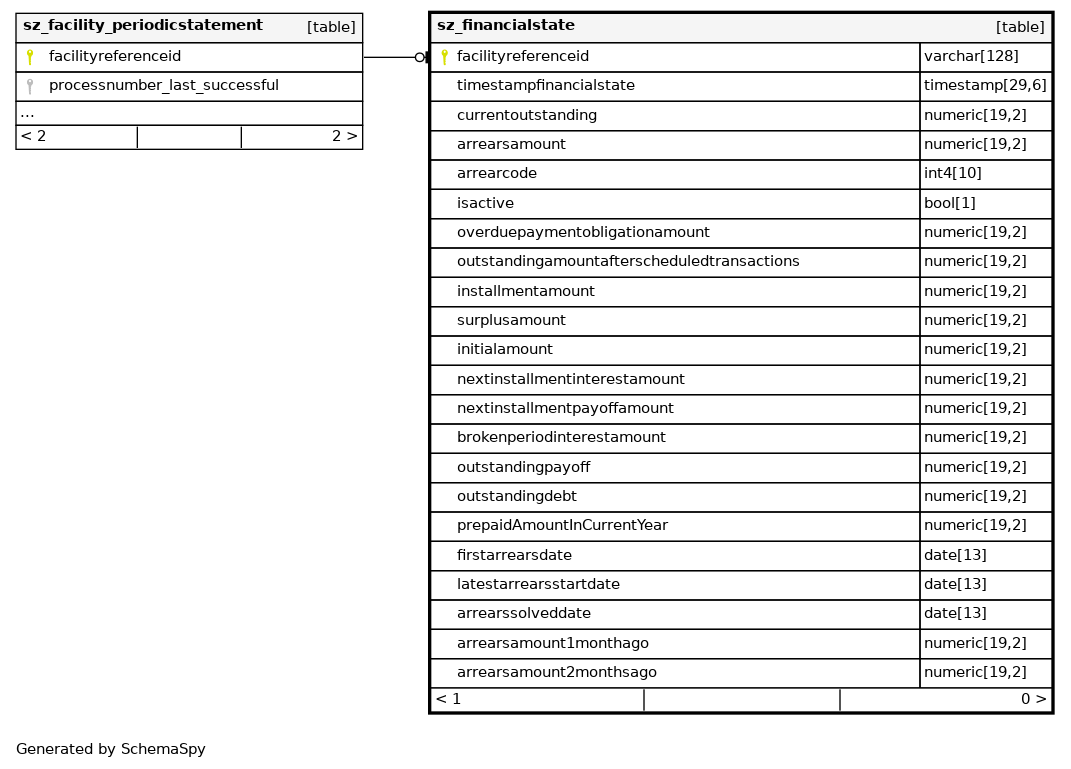
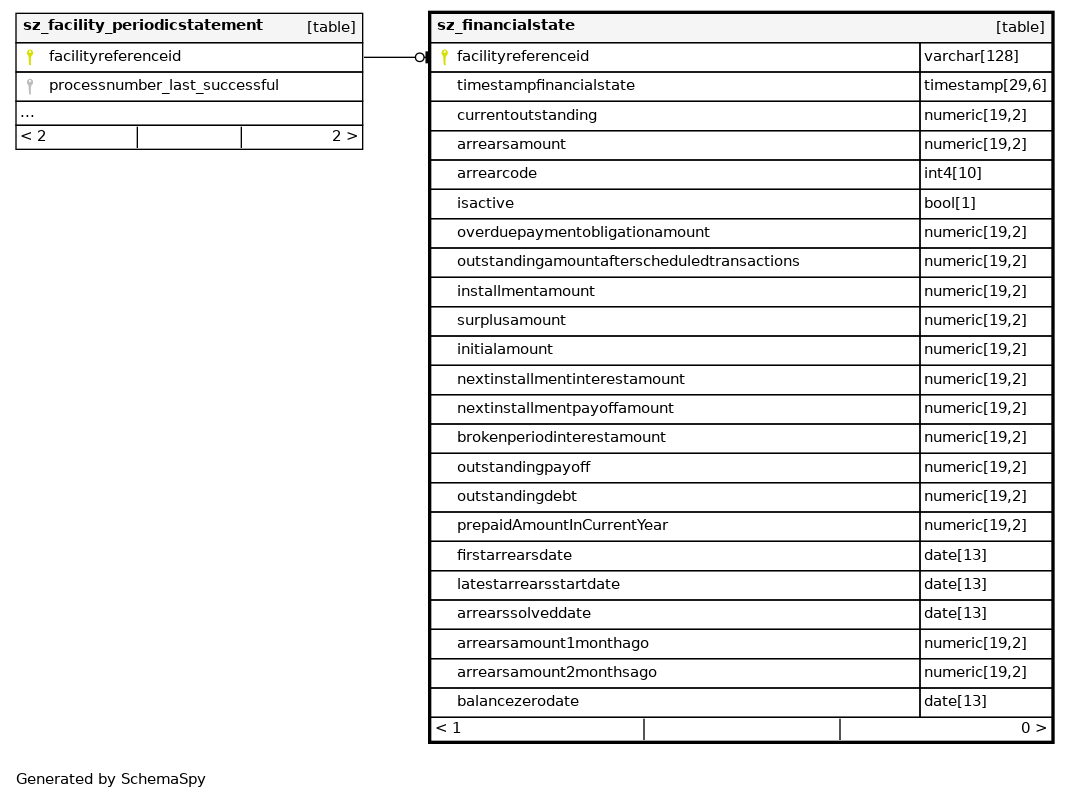
FYNL-143115 ALC-1825 Add balance zero date for facilities (added to sz_financialstate)

Changed region(s): [[0.0, 0.0, 0.986, 0.9363], [0.0, 0.9675, 0.1849, 0.9987]]

diff --git a/FDA/v2026.2/relationships.html b/FDA/v2026.2/relationships.html
@@ -113,9 +113,9 @@
 <area shape="rect" id="node15" href="tables/sz_otherproperties.html" target="_top" title="sz_otherproperties" alt="" coords="817,2473,1093,2591">
 <area shape="rect" id="node16" href="tables/sz_financialstate_agreementlevel.html" target="_top" title="sz_financialstate_agreementlevel" alt="" coords="1681,1388,2192,1505">
 <area shape="rect" id="node55" href="tables/sz_agreement_periodicstatement.html" target="_top" title="sz_agreement_periodicstatement" alt="" coords="1207,1537,1615,1684">
-<area shape="rect" id="node17" href="tables/sz_slidetails.html" target="_top" title="sz_slidetails" alt="" coords="1247,1151,1574,1297">
+<area shape="rect" id="node17" href="tables/sz_relation.html" target="_top" title="sz_relation" alt="" coords="1266,1315,1555,1520">
+<area shape="rect" id="node18" href="tables/sz_slidetails.html" target="_top" title="sz_slidetails" alt="" coords="1247,1151,1574,1297">
 <area shape="rect" id="node54" href="tables/sz_sli.html" target="_top" title="sz_sli" alt="" coords="855,1151,1055,1327">
-<area shape="rect" id="node18" href="tables/sz_relation.html" target="_top" title="sz_relation" alt="" coords="1266,1315,1555,1520">
 <area shape="rect" id="node19" href="tables/sz_calcmodel_customerbaseddetails.html" target="_top" title="sz_calcmodel_customerbaseddetails" alt="" coords="1193,424,1629,688">
 <area shape="rect" id="node20" href="tables/sz_businessrules.html" target="_top" title="sz_businessrules" alt="" coords="1279,2832,1542,3008">
 <area shape="rect" id="node28" href="tables/sz_approval.html" target="_top" title="sz_approval" alt="" coords="847,2779,1063,2925">
@@ -124,7 +124,7 @@
 <area shape="rect" id="node22" href="tables/sz_annualaccountsdetails.html" target="_top" title="sz_annualaccountsdetails" alt="" coords="1245,705,1577,852">
 <area shape="rect" id="node41" href="tables/sz_annualaccounts.html" target="_top" title="sz_annualaccounts" alt="" coords="822,749,1089,896">
 <area shape="rect" id="node24" href="tables/sz_fund_facility_participation.html" target="_top" title="sz_fund_facility_participation" alt="" coords="1224,3160,1597,3424">
-<area shape="rect" id="node36" href="tables/sz_fundingaccount.html" target="_top" title="sz_fundingaccount" alt="" coords="775,3307,1135,3453">
+<area shape="rect" id="node35" href="tables/sz_fundingaccount.html" target="_top" title="sz_fundingaccount" alt="" coords="775,3307,1135,3453">
 <area shape="rect" id="node25" href="tables/sz_financinggoal.html" target="_top" title="sz_financinggoal" alt="" coords="1277,1701,1545,1877">
 <area shape="rect" id="node31" href="tables/sz_user.html" target="_top" title="sz_user" alt="" coords="101,2697,263,2815">
 <area shape="rect" id="node29" href="tables/sz_periodicstatement_invoice.html" target="_top" title="sz_periodicstatement_invoice" alt="" coords="2309,1561,2680,1737">
@@ -133,7 +133,7 @@
 <area shape="rect" id="node32" href="tables/sz_financingsubgoal.html" target="_top" title="sz_financingsubgoal" alt="" coords="1789,1716,2084,1892">
 <area shape="rect" id="node33" href="tables/sz_constructionaccount_declaration.html" target="_top" title="sz_constructionaccount_declaration" alt="" coords="1721,2445,2153,2621">
 <area shape="rect" id="node34" href="tables/sz_processstatuschange.html" target="_top" title="sz_processstatuschange" alt="" coords="795,2943,1115,3119">
-<area shape="rect" id="node35" href="tables/sz_fundingaccount_periodicstatement.html" target="_top" title="sz_fundingaccount_periodicstatement" alt="" coords="1184,3441,1637,3617">
+<area shape="rect" id="node36" href="tables/sz_fundingaccount_periodicstatement.html" target="_top" title="sz_fundingaccount_periodicstatement" alt="" coords="1184,3441,1637,3617">
 <area shape="rect" id="node37" href="tables/sz_processevents.html" target="_top" title="sz_processevents" alt="" coords="783,2644,1128,2761">
 <area shape="rect" id="node38" href="tables/sz_counterparty_fiscal_info.html" target="_top" title="sz_counterparty_fiscal_info" alt="" coords="782,1449,1129,1596">
 <area shape="rect" id="node39" href="tables/sz_calcmodel_processbased.html" target="_top" title="sz_calcmodel_processbased" alt="" coords="779,913,1132,1089">
@@ -173,9 +173,9 @@
 <area shape="rect" id="node15" href="tables/sz_otherproperties.html" target="_top" title="sz_otherproperties" alt="" coords="1372,667,1648,789">
 <area shape="rect" id="node16" href="tables/sz_financialstate_agreementlevel.html" target="_top" title="sz_financialstate_agreementlevel" alt="" coords="2236,6148,2747,6857">
 <area shape="rect" id="node55" href="tables/sz_agreement_periodicstatement.html" target="_top" title="sz_agreement_periodicstatement" alt="" coords="1761,6837,2169,6989">
-<area shape="rect" id="node17" href="tables/sz_slidetails.html" target="_top" title="sz_slidetails" alt="" coords="1802,1428,2129,2607">
+<area shape="rect" id="node17" href="tables/sz_relation.html" target="_top" title="sz_relation" alt="" coords="1821,4944,2110,5155">
+<area shape="rect" id="node18" href="tables/sz_slidetails.html" target="_top" title="sz_slidetails" alt="" coords="1802,1428,2129,2607">
 <area shape="rect" id="node54" href="tables/sz_sli.html" target="_top" title="sz_sli" alt="" coords="1410,1703,1610,1884">
-<area shape="rect" id="node18" href="tables/sz_relation.html" target="_top" title="sz_relation" alt="" coords="1821,4944,2110,5155">
 <area shape="rect" id="node19" href="tables/sz_calcmodel_customerbaseddetails.html" target="_top" title="sz_calcmodel_customerbaseddetails" alt="" coords="1747,3820,2183,4119">
 <area shape="rect" id="node20" href="tables/sz_businessrules.html" target="_top" title="sz_businessrules" alt="" coords="1834,737,2097,1095">
 <area shape="rect" id="node28" href="tables/sz_approval.html" target="_top" title="sz_approval" alt="" coords="1402,843,1618,1083">
@@ -184,7 +184,7 @@
 <area shape="rect" id="node22" href="tables/sz_annualaccountsdetails.html" target="_top" title="sz_annualaccountsdetails" alt="" coords="1799,2624,2131,3803">
 <area shape="rect" id="node41" href="tables/sz_annualaccounts.html" target="_top" title="sz_annualaccounts" alt="" coords="1377,2653,1643,2805">
 <area shape="rect" id="node24" href="tables/sz_fund_facility_participation.html" target="_top" title="sz_fund_facility_participation" alt="" coords="1779,4136,2152,4435">
-<area shape="rect" id="node36" href="tables/sz_fundingaccount.html" target="_top" title="sz_fundingaccount" alt="" coords="1330,4327,1690,5007">
+<area shape="rect" id="node35" href="tables/sz_fundingaccount.html" target="_top" title="sz_fundingaccount" alt="" coords="1330,4327,1690,5007">
 <area shape="rect" id="node25" href="tables/sz_financinggoal.html" target="_top" title="sz_financinggoal" alt="" coords="1831,7580,2099,7791">
 <area shape="rect" id="node31" href="tables/sz_user.html" target="_top" title="sz_user" alt="" coords="656,908,817,1060">
 <area shape="rect" id="node29" href="tables/sz_periodicstatement_invoice.html" target="_top" title="sz_periodicstatement_invoice" alt="" coords="2864,6893,3235,7280">
@@ -193,13 +193,13 @@
 <area shape="rect" id="node32" href="tables/sz_financingsubgoal.html" target="_top" title="sz_financingsubgoal" alt="" coords="2344,7551,2639,7791">
 <area shape="rect" id="node33" href="tables/sz_constructionaccount_declaration.html" target="_top" title="sz_constructionaccount_declaration" alt="" coords="2275,5576,2707,5933">
 <area shape="rect" id="node34" href="tables/sz_processstatuschange.html" target="_top" title="sz_processstatuschange" alt="" coords="1350,5,1670,392">
-<area shape="rect" id="node35" href="tables/sz_fundingaccount_periodicstatement.html" target="_top" title="sz_fundingaccount_periodicstatement" alt="" coords="1739,4452,2192,4927">
+<area shape="rect" id="node36" href="tables/sz_fundingaccount_periodicstatement.html" target="_top" title="sz_fundingaccount_periodicstatement" alt="" coords="1739,4452,2192,4927">
 <area shape="rect" id="node37" href="tables/sz_processevents.html" target="_top" title="sz_processevents" alt="" coords="1337,1100,1683,1487">
 <area shape="rect" id="node38" href="tables/sz_counterparty_fiscal_info.html" target="_top" title="sz_counterparty_fiscal_info" alt="" coords="1337,7572,1683,7753">
 <area shape="rect" id="node39" href="tables/sz_calcmodel_processbased.html" target="_top" title="sz_calcmodel_processbased" alt="" coords="1333,1504,1687,1685">
 <area shape="rect" id="node40" href="tables/sz_agreement_tags.html" target="_top" title="sz_agreement_tags" alt="" coords="1830,7007,2101,7159">
 <area shape="rect" id="node42" href="tables/sz_workflowprocessdefinition.html" target="_top" title="sz_workflowprocessdefinition" alt="" coords="3731,1849,4103,2060">
-<area shape="rect" id="node43" href="tables/sz_financialstate.html" target="_top" title="sz_financialstate" alt="" coords="2794,5248,3305,5957">
+<area shape="rect" id="node43" href="tables/sz_financialstate.html" target="_top" title="sz_financialstate" alt="" coords="2794,5248,3305,5987">
 <area shape="rect" id="node45" href="tables/sz_calcmodel_processbaseddetails.html" target="_top" title="sz_calcmodel_processbaseddetails" alt="" coords="1755,1112,2175,1411">
 <area shape="rect" id="node46" href="tables/sz_fee_agreement.html" target="_top" title="sz_fee_agreement" alt="" coords="1820,7176,2111,7563">
 <area shape="rect" id="node47" href="tables/sz_collateral_object_taxation.html" target="_top" title="sz_collateral_object_taxation" alt="" coords="2867,7779,3231,8253">

diff --git a/FDA/v2026.2/index.html b/FDA/v2026.2/index.html
@@ -78,7 +78,7 @@
                         <div class="col-md-12">
                             <div class="callout callout-info">
                                 <h4>SchemaSpy Analysis of data-analytics.wlc</h4>
-                                <p>Generated on Mon Nov 09 13:19 UTC 2026</p>
+                                <p>Generated on Mon Nov 16 10:45 UTC 2026</p>
                             </div>
                         </div>
                     </div>
@@ -127,7 +127,7 @@
                                 <span class="info-box-icon bg-green"><span class="glyphicon glyphicon-list-alt" aria-hidden="true"></span></span>
                                 <div class="info-box-content">
                                     <span class="info-box-text">COLUMNS</span>
-                                    <span class="info-box-number">627</span>
+                                    <span class="info-box-number">628</span>
                                 </div>
                                 <!-- /.info-box-content -->
                             </div>
@@ -333,20 +333,20 @@
                                         <td class="comment detail" style="display: table-cell;"><p>Table with financial_state on agreement level</p></td>
                                     </tr>
                                     <tr class="tbl even" valign="top">
-                                        <td class="detail"><a href="tables/sz_slidetails.html">sz_slidetails</a></td>
-                                        <td class="detail" align="right">0</td>
-                                        <td class="detail" align="right">1</td>
-                                        <td class="detail" align="right">38</td>
-                                        <td class="detail" align="right">Table</td>
-                                        <td class="comment detail" style="display: table-cell;"><p>Details of SLI = Statement after Loan Issuing</p></td>
-                                    </tr>
-                                    <tr class="tbl even" valign="top">
                                         <td class="detail"><a href="tables/sz_relation.html">sz_relation</a></td>
                                         <td class="detail" align="right">0</td>
                                         <td class="detail" align="right">4</td>
                                         <td class="detail" align="right">5</td>
                                         <td class="detail" align="right">Table</td>
                                         <td class="comment detail" style="display: table-cell;"><p>Associative table implementing the many-to-many relation between Agreement and Counterparty</p></td>
+                                    </tr>
+                                    <tr class="tbl even" valign="top">
+                                        <td class="detail"><a href="tables/sz_slidetails.html">sz_slidetails</a></td>
+                                        <td class="detail" align="right">0</td>
+                                        <td class="detail" align="right">1</td>
+                                        <td class="detail" align="right">38</td>
+                                        <td class="detail" align="right">Table</td>
+                                        <td class="comment detail" style="display: table-cell;"><p>Details of SLI = Statement after Loan Issuing</p></td>
                                     </tr>
                                     <tr class="tbl even" valign="top">
                                         <td class="detail"><a href="tables/sz_calcmodel_customerbaseddetails.html">sz_calcmodel_customerbaseddetails</a></td>
@@ -477,20 +477,20 @@
                                         <td class="comment detail" style="display: table-cell;"><p>Details of all statuschanges of a process</p></td>
                                     </tr>
                                     <tr class="tbl even" valign="top">
-                                        <td class="detail"><a href="tables/sz_fundingaccount_periodicstatement.html">sz_fundingaccount_periodicstatement</a></td>
-                                        <td class="detail" align="right">0</td>
-                                        <td class="detail" align="right">1</td>
-                                        <td class="detail" align="right">14</td>
-                                        <td class="detail" align="right">Table</td>
-                                        <td class="comment detail" style="display: table-cell;"><p>Table with periodic_statements on agreement level</p></td>
-                                    </tr>
-                                    <tr class="tbl even" valign="top">
                                         <td class="detail"><a href="tables/sz_fundingaccount.html">sz_fundingaccount</a></td>
                                         <td class="detail" align="right">4</td>
                                         <td class="detail" align="right">1</td>
                                         <td class="detail" align="right">21</td>
                                         <td class="detail" align="right">Table</td>
                                         <td class="comment detail" style="display: table-cell;"><p>Funding account information.</p></td>
+                                    </tr>
+                                    <tr class="tbl even" valign="top">
+                                        <td class="detail"><a href="tables/sz_fundingaccount_periodicstatement.html">sz_fundingaccount_periodicstatement</a></td>
+                                        <td class="detail" align="right">0</td>
+                                        <td class="detail" align="right">1</td>
+                                        <td class="detail" align="right">14</td>
+                                        <td class="detail" align="right">Table</td>
+                                        <td class="comment detail" style="display: table-cell;"><p>Table with periodic_statements on agreement level</p></td>
                                     </tr>
                                     <tr class="tbl even" valign="top">
                                         <td class="detail"><a href="tables/sz_processevents.html">sz_processevents</a></td>
@@ -544,7 +544,7 @@
                                         <td class="detail"><a href="tables/sz_financialstate.html">sz_financialstate</a></td>
                                         <td class="detail" align="right">0</td>
                                         <td class="detail" align="right">1</td>
-                                        <td class="detail" align="right">22</td>
+                                        <td class="detail" align="right">23</td>
                                         <td class="detail" align="right">Table</td>
                                         <td class="comment detail" style="display: table-cell;"><p>Table with financial_state on facility level</p></td>
                                     </tr>

diff --git a/FDA/v2026.2/constraints.html b/FDA/v2026.2/constraints.html
@@ -422,24 +422,6 @@
                                         <td><span title='Cascade on delete:&#10;Deletion of parent deletes child'>Cascade on delete</span></td>
                                     </tr>
                                     <tr>
-                                        <td>FK_sli_details</td>
-                                        <td>
-                                            <table border='0' cellspacing='0' cellpadding='0'>
-                                                <tr>
-                                                    <td><a href='tables/sz_slidetails.html'>sz_slidetails</a><span>.sliid</span></td>
-                                                </tr>
-                                            </table>
-                                        </td>
-                                        <td>
-                                            <table border='0' cellspacing='0' cellpadding='0'>
-                                                <tr>
-                                                    <td><a href='tables/sz_sli.html'>sz_sli</a><span>.sliid</span></td>
-                                                </tr>
-                                            </table>
-                                        </td>
-                                        <td><span title='Cascade on delete:&#10;Deletion of parent deletes child'>Cascade on delete</span></td>
-                                    </tr>
-                                    <tr>
                                         <td>FK_relation_agreement</td>
                                         <td>
                                             <table border='0' cellspacing='0' cellpadding='0'>
@@ -482,6 +464,24 @@
                                                 </tr>
                                                 <tr>
                                                     <td><a href='tables/sz_counterparty.html'>sz_counterparty</a><span>.processnumber</span></td>
+                                                </tr>
+                                            </table>
+                                        </td>
+                                        <td><span title='Cascade on delete:&#10;Deletion of parent deletes child'>Cascade on delete</span></td>
+                                    </tr>
+                                    <tr>
+                                        <td>FK_sli_details</td>
+                                        <td>
+                                            <table border='0' cellspacing='0' cellpadding='0'>
+                                                <tr>
+                                                    <td><a href='tables/sz_slidetails.html'>sz_slidetails</a><span>.sliid</span></td>
+                                                </tr>
+                                            </table>
+                                        </td>
+                                        <td>
+                                            <table border='0' cellspacing='0' cellpadding='0'>
+                                                <tr>
+                                                    <td><a href='tables/sz_sli.html'>sz_sli</a><span>.sliid</span></td>
                                                 </tr>
                                             </table>
                                         </td>
@@ -896,24 +896,6 @@
                                         <td><span title='Cascade on delete:&#10;Deletion of parent deletes child'>Cascade on delete</span></td>
                                     </tr>
                                     <tr>
-                                        <td>FK_sz_fundingaccount_periodicstatement</td>
-                                        <td>
-                                            <table border='0' cellspacing='0' cellpadding='0'>
-                                                <tr>
-                                                    <td><a href='tables/sz_fundingaccount_periodicstatement.html'>sz_fundingaccount_periodicstatement</a><span>.fundingaccountreferenceid</span></td>
-                                                </tr>
-                                            </table>
-                                        </td>
-                                        <td>
-                                            <table border='0' cellspacing='0' cellpadding='0'>
-                                                <tr>
-                                                    <td><a href='tables/sz_fundingaccount.html'>sz_fundingaccount</a><span>.referenceid</span></td>
-                                                </tr>
-                                            </table>
-                                        </td>
-                                        <td><span title='Cascade on delete:&#10;Deletion of parent deletes child'>Cascade on delete</span></td>
-                                    </tr>
-                                    <tr>
                                         <td>FK_sz_fundingaccount</td>
                                         <td>
                                             <table border='0' cellspacing='0' cellpadding='0'>
@@ -930,6 +912,24 @@
                                             </table>
                                         </td>
                                         <td><span title='Restrict delete:&#10;Parent cannot be deleted if children exist'>Restrict delete</span></td>
+                                    </tr>
+                                    <tr>
+                                        <td>FK_sz_fundingaccount_periodicstatement</td>
+                                        <td>
+                                            <table border='0' cellspacing='0' cellpadding='0'>
+                                                <tr>
+                                                    <td><a href='tables/sz_fundingaccount_periodicstatement.html'>sz_fundingaccount_periodicstatement</a><span>.fundingaccountreferenceid</span></td>
+                                                </tr>
+                                            </table>
+                                        </td>
+                                        <td>
+                                            <table border='0' cellspacing='0' cellpadding='0'>
+                                                <tr>
+                                                    <td><a href='tables/sz_fundingaccount.html'>sz_fundingaccount</a><span>.referenceid</span></td>
+                                                </tr>
+                                            </table>
+                                        </td>
+                                        <td><span title='Cascade on delete:&#10;Deletion of parent deletes child'>Cascade on delete</span></td>
                                     </tr>
                                     <tr>
                                         <td>FK_sz_processevents_process</td>

diff --git a/FDA/v2026.2/tables/sz_financialstate.html b/FDA/v2026.2/tables/sz_financialstate.html
@@ -500,6 +500,23 @@
                                     </td>
                                     <td><p>Arrears amount two months ago.</p></td>
                                 </tr>
+                                <tr>
+                                    <td><span id="balancezerodate">balancezerodate</span></td>
+                                    <td>date</td>
+                                    <td>13</td>
+                                    <td title='nullable'>√</td>
+                                    <td title=''></td>
+                                    <td>null</td>
+                                    <td>
+                                        <table border='0' cellspacing='0' cellpadding='0'>
+                                        </table>
+                                    </td>
+                                    <td>
+                                        <table border='0' cellspacing='0' cellpadding='0'>
+                                        </table>
+                                    </td>
+                                    <td><p>Date on which the balance reached zero.</p></td>
+                                </tr>
                                 </tbody>
                             </table>
                         </div>
@@ -559,17 +576,17 @@
                                 <div class="tab-content no-padding">
                                     <div class="chart tab-pane active" id="oneDegreeImg-chart" style="position: relative; overflow-x:auto;">
                                         <map id="oneDegreeRelationshipsDiagram" name="oneDegreeRelationshipsDiagram">
-<area shape="rect" id="node1" href="sz_financialstate.html" target="_top" title="sz_financialstate" alt="" coords="417,5,1065,720">
+<area shape="rect" id="node1" href="sz_financialstate.html" target="_top" title="sz_financialstate" alt="" coords="417,5,1065,749">
 <area shape="rect" id="node2" href="sz_facility_periodicstatement.html" target="_top" title="sz_facility_periodicstatement" alt="" coords="5,8,373,155">
 </map>
                                         <a name='diagram'><img id="oneDegreeImg" src="../diagrams/tables/sz_financialstate.1degree.png" usemap="#oneDegreeRelationshipsDiagram" class="diagram" border="0" align="left"></a>
                                     </div>
                                     <div class="chart tab-pane " id="twodegreesDegreeImg-chart" style="position: relative; overflow-x:auto;">
                                         <map id="twoDegreesRelationshipsDiagram" name="twoDegreesRelationshipsDiagram">
-<area shape="rect" id="node1" href="sz_facility_periodicstatement.html" target="_top" title="sz_facility_periodicstatement" alt="" coords="228,372,596,519">
-<area shape="rect" id="node2" href="sz_facility.html" target="_top" title="sz_facility" alt="" coords="5,389,184,477">
-<area shape="rect" id="node3" href="sz_financialstate.html" target="_top" title="sz_financialstate" alt="" coords="640,5,1288,720">
-<area shape="rect" id="node4" href="sz_periodicstatement.html" target="_top" title="sz_periodicstatement" alt="" coords="818,737,1110,825">
+<area shape="rect" id="node1" href="sz_facility_periodicstatement.html" target="_top" title="sz_facility_periodicstatement" alt="" coords="228,387,596,533">
+<area shape="rect" id="node2" href="sz_facility.html" target="_top" title="sz_facility" alt="" coords="5,404,184,492">
+<area shape="rect" id="node3" href="sz_financialstate.html" target="_top" title="sz_financialstate" alt="" coords="640,5,1288,749">
+<area shape="rect" id="node4" href="sz_periodicstatement.html" target="_top" title="sz_periodicstatement" alt="" coords="818,767,1110,855">
 </map>
                                         <a name='diagram'><img id="twodegreesDegreeImg" src="../diagrams/tables/sz_financialstate.2degrees.png" usemap="#twoDegreesRelationshipsDiagram" class="diagram" border="0" align="left"></a>
                                     </div>

diff --git a/FDA/v2026.2/columns.html b/FDA/v2026.2/columns.html
@@ -5319,6 +5319,20 @@
         "comments": "<p>Arrears amount two months ago.</p>"
     },
     {
+        "tableName": "sz_financialstate",
+        "tableFileName": "sz_financialstate",
+        "tableType": "Table",
+        "keyClass": "",
+        "keyTitle": "",
+        "name": "balancezerodate",
+        "type": "date",
+        "length": 13,
+        "nullable": "√",
+        "autoUpdated": "",
+        "defaultValue": "null",
+        "comments": "<p>Date on which the balance reached zero.</p>"
+    },
+    {
         "tableName": "sz_financialstate_agreementlevel",
         "tableFileName": "sz_financialstate_agreementlevel",
         "tableType": "Table",
